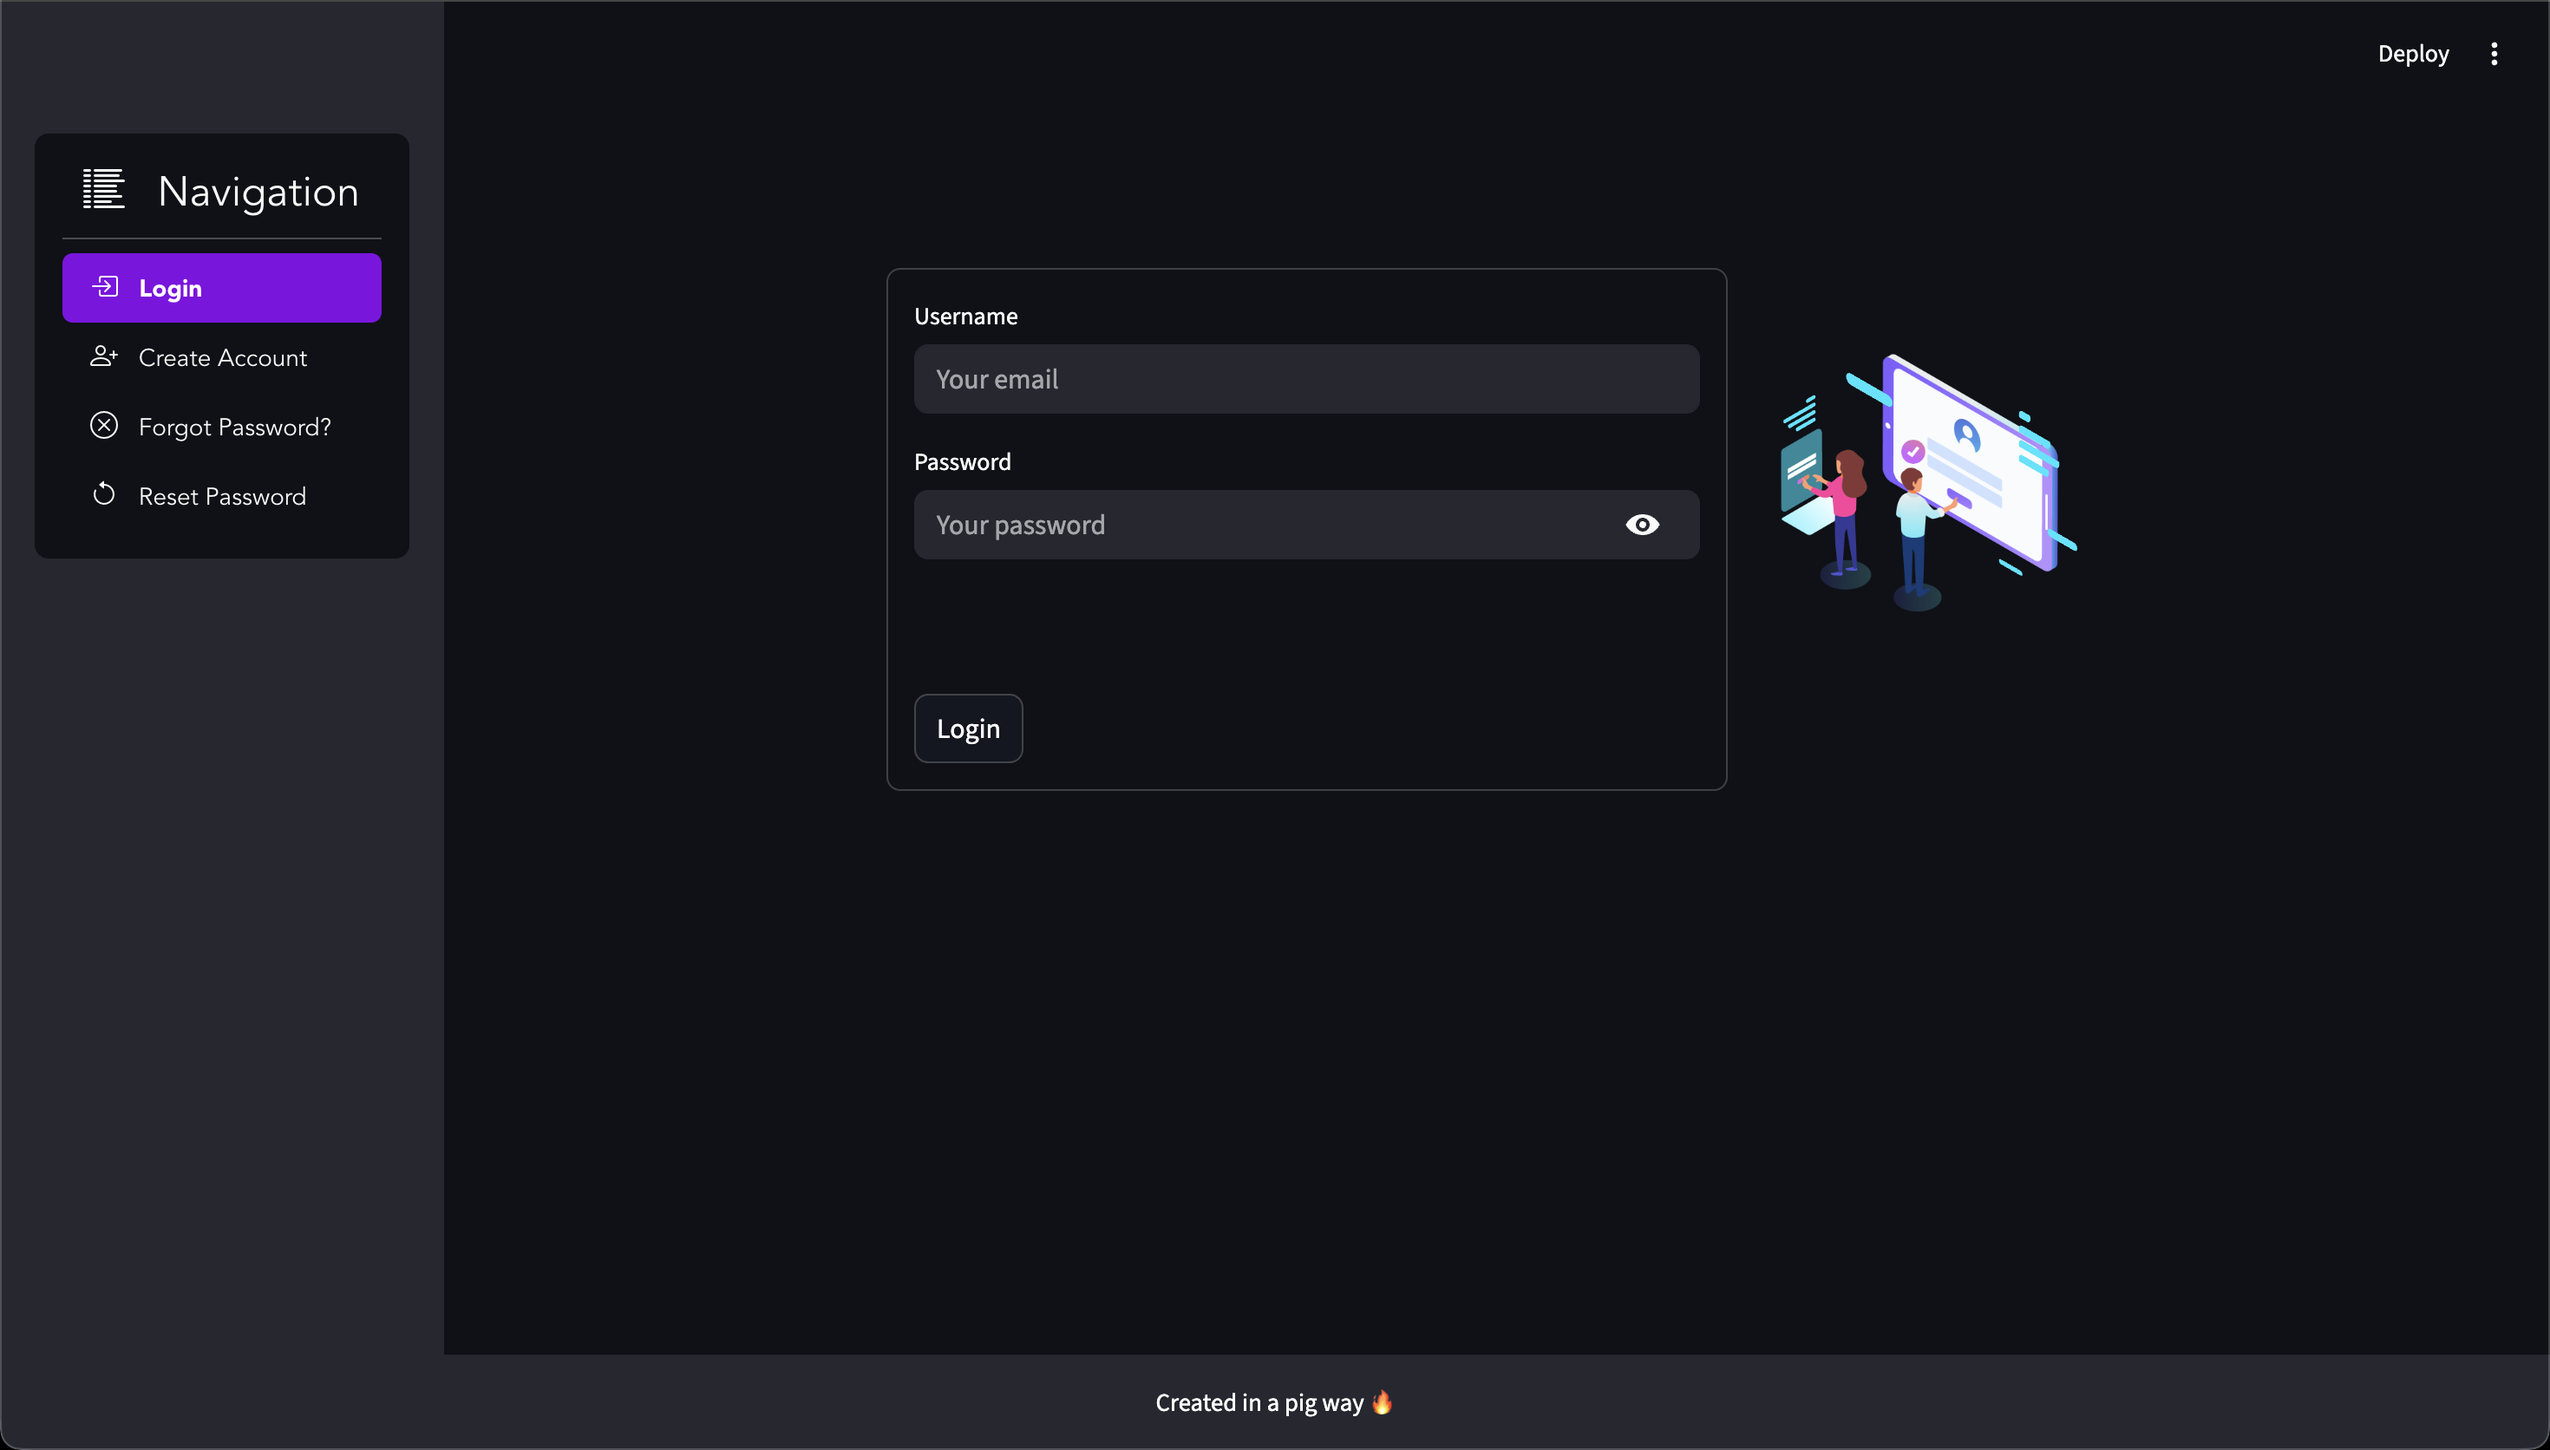
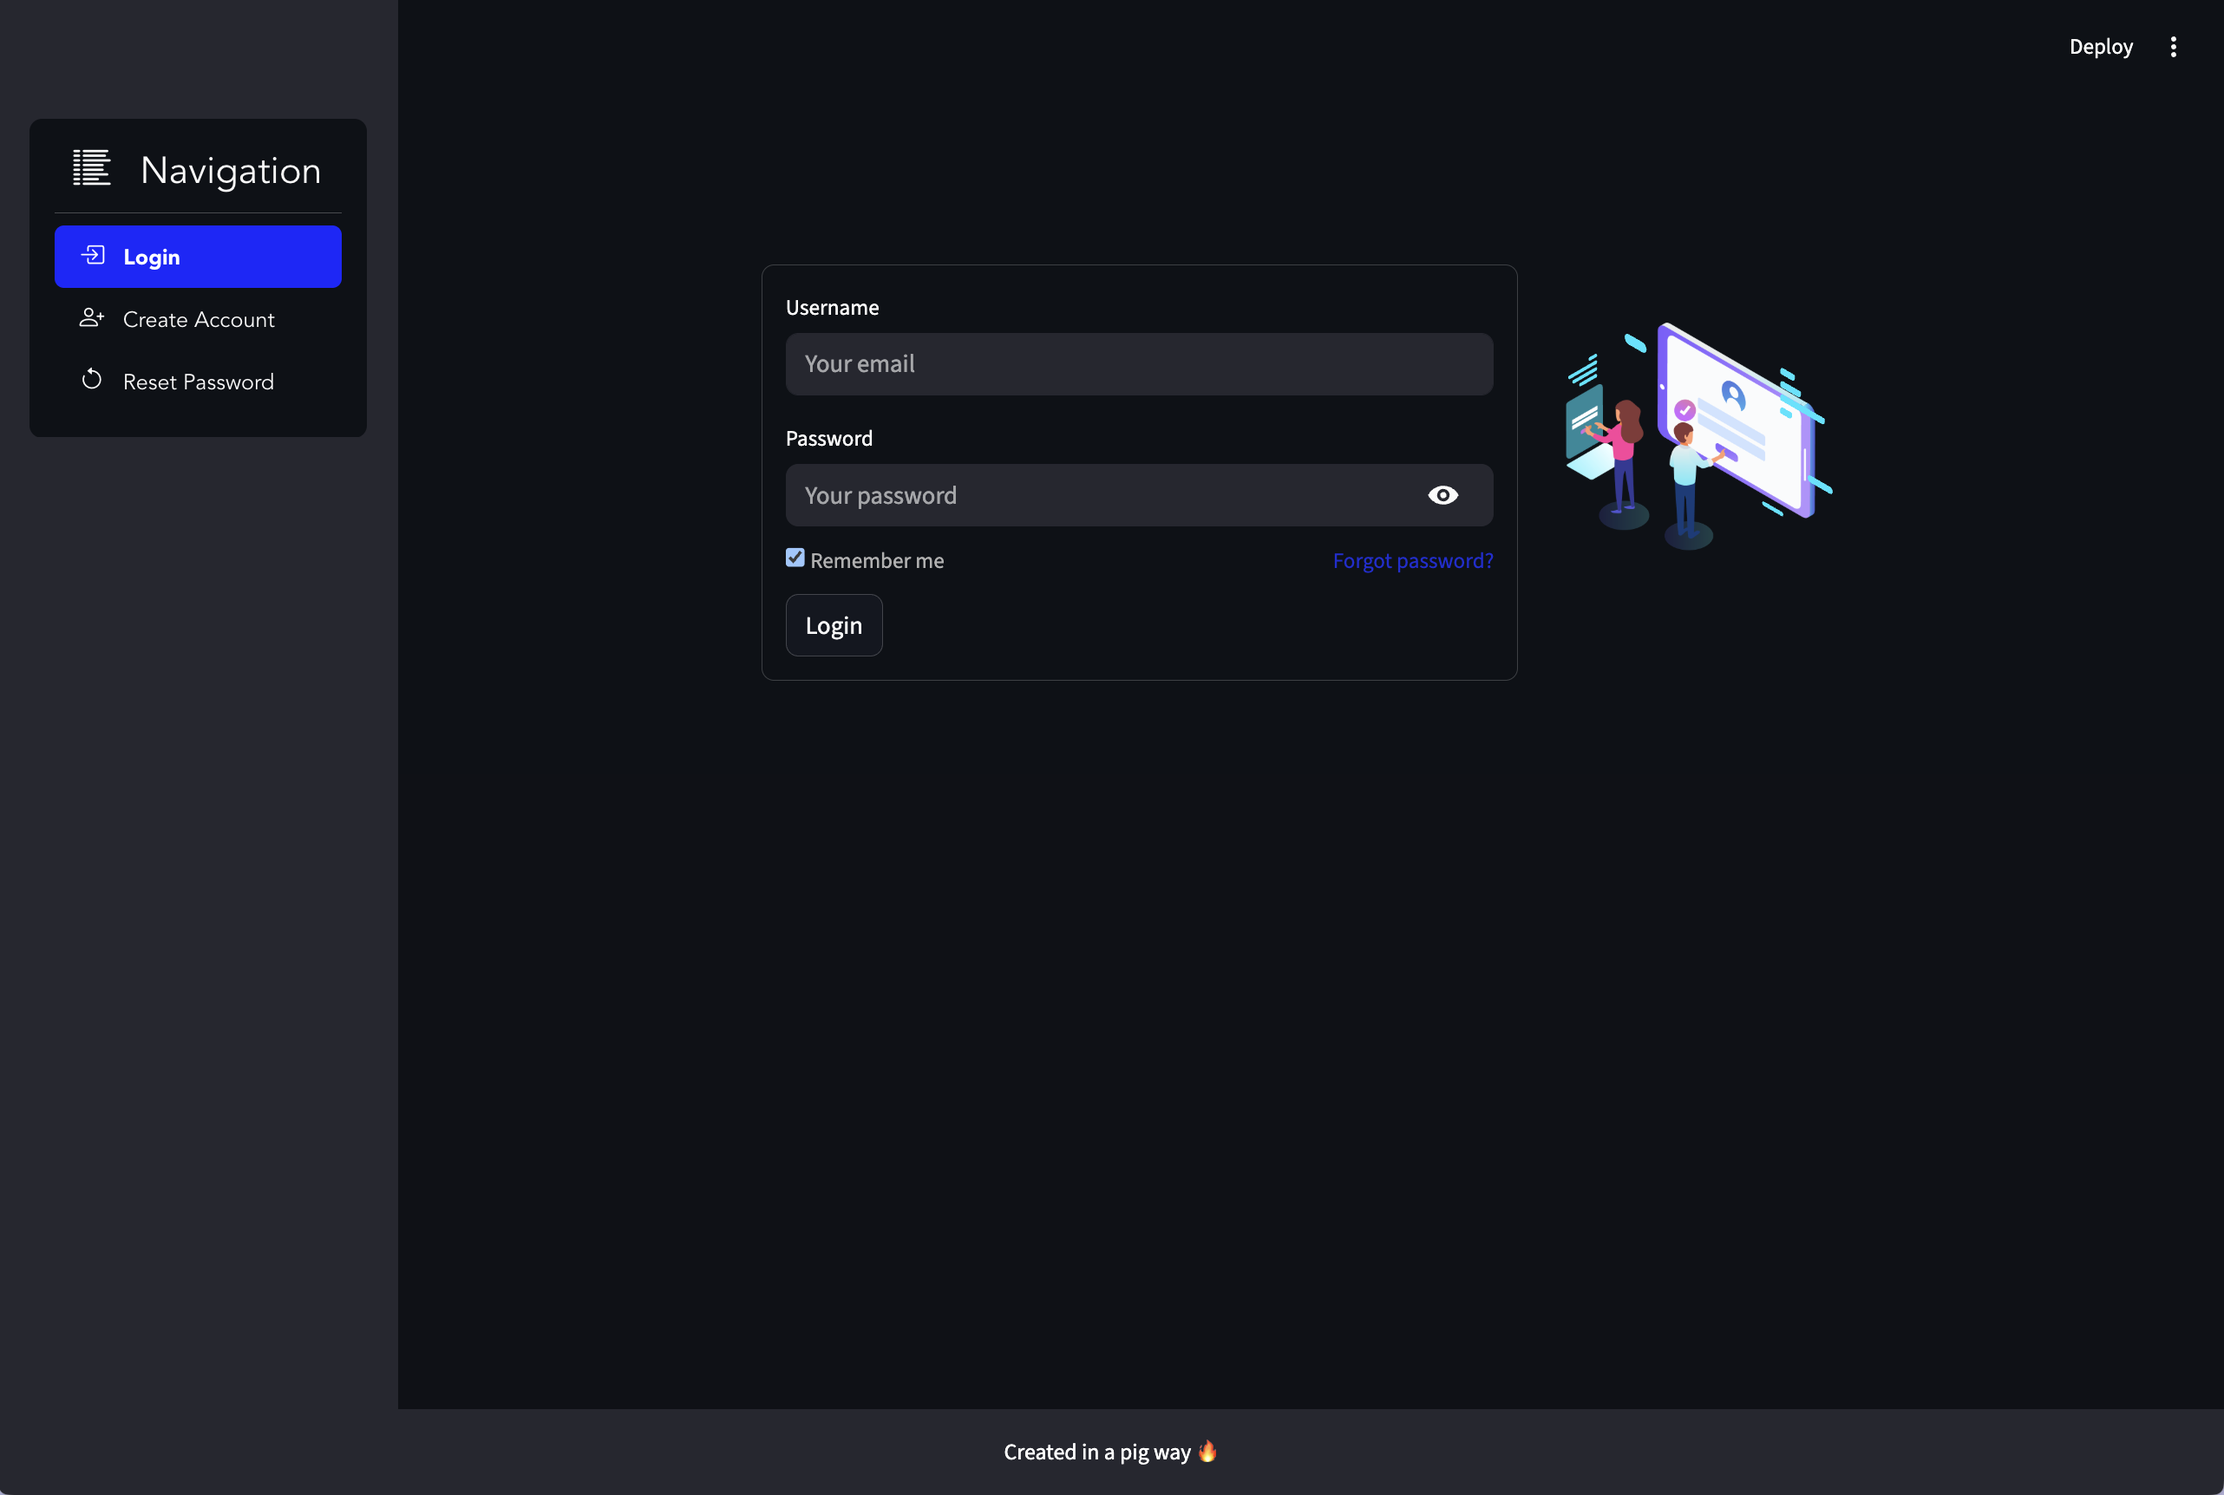
Change css styles, and update login page

diff --git a/frontend/src/widgets.py b/frontend/src/widgets.py
@@ -62,6 +62,45 @@ class __login__:
                 return username
  
 
+    # def login_widget(self) -> None:
+    #     """
+    #     Creates the login widget, checks and sets cookies, authenticates the users.
+    #     """
+
+    #     # Checks if cookie exists.
+    #     if st.session_state['LOGGED_IN'] == False:
+    #         if st.session_state['LOGOUT_BUTTON_HIT'] == False:
+    #             fetched_cookies = self.cookies
+    #             if '__streamlit_login_signup_ui_username__' in fetched_cookies.keys():
+    #                 if fetched_cookies['__streamlit_login_signup_ui_username__'] != '1c9a923f-fb21-4a91-b3f3-5f18e3f01182':
+    #                     st.session_state['LOGGED_IN'] = True
+
+    #     if st.session_state['LOGGED_IN'] == False:
+    #         st.session_state['LOGOUT_BUTTON_HIT'] = False 
+
+    #         del_login = st.empty()
+    #         with del_login.form("Login Form"):
+    #             username = st.text_input("Username", placeholder = 'Your email')
+    #             password = st.text_input("Password", placeholder = 'Your password', type = 'password')
+
+    #             st.markdown("###")
+    #             login_submit_button = st.form_submit_button(label = 'Login')
+
+    #             if login_submit_button == True:
+    #                 authenticate_user_check = check_usr_pass(username, password)
+
+    #                 if authenticate_user_check == False:
+    #                     st.error("Invalid Username or Password!")
+
+    #                 else:
+    #                     st.session_state['LOGGED_IN'] = True
+    #                     self.cookies['__streamlit_login_signup_ui_username__'] = username
+    #                     self.cookies.save()
+    #                     del_login.empty()
+    #                     st.rerun()
+
+    #         with st.expander('Forgot password?'):
+    #             self.forgot_password()
     def login_widget(self) -> None:
         """
         Creates the login widget, checks and sets cookies, authenticates the users.
@@ -78,20 +117,57 @@ class __login__:
         if st.session_state['LOGGED_IN'] == False:
             st.session_state['LOGOUT_BUTTON_HIT'] = False 
 
+            # CSS spaces and align the options
+            st.markdown("""
+                <style>
+                /* Reduz espaço entre senha e botão */
+                div[data-testid="stForm"] > div:nth-child(3) {
+                    margin-top: -5px;
+                }
+
+                /* Linha Remember / Forgot */
+                .login-options {
+                    display: flex;
+                    justify-content: space-between;
+                    align-items: center;
+                    margin-bottom: 10px;
+                    margin-top: -5px;
+                    font-size: 14px;
+                    color: #b0b0b0;
+                }
+
+                .login-options a {
+                    color: #1f2ed3;
+                    text-decoration: none;
+                }
+
+                .login-options a:hover {
+                    text-decoration: underline;
+                }
+                </style>
+            """, unsafe_allow_html=True)
+
             del_login = st.empty()
             with del_login.form("Login Form"):
-                username = st.text_input("Username", placeholder = 'Your email')
-                password = st.text_input("Password", placeholder = 'Your password', type = 'password')
+                username = st.text_input("Username", placeholder='Your email')
+                password = st.text_input("Password", placeholder='Your password', type='password')
 
-                st.markdown("###")
-                login_submit_button = st.form_submit_button(label = 'Login')
+                # Remember me + Forgot password
+                st.markdown("""
+                <div class='login-options'>
+                    <label><input type='checkbox' checked> Remember me</label>
+                    <a href='#'>Forgot password?</a>
+                </div>
+                """, unsafe_allow_html=True)
 
-                if login_submit_button == True:
+                # login button closer to the options
+                login_submit_button = st.form_submit_button(label='Login')
+
+                if login_submit_button:
                     authenticate_user_check = check_usr_pass(username, password)
 
-                    if authenticate_user_check == False:
+                    if not authenticate_user_check:
                         st.error("Invalid Username or Password!")
-
                     else:
                         st.session_state['LOGGED_IN'] = True
                         self.cookies['__streamlit_login_signup_ui_username__'] = username
@@ -229,7 +305,7 @@ class __login__:
                 st.session_state['LOGGED_IN'] = False
                 self.cookies['__streamlit_login_signup_ui_username__'] = '1c9a923f-fb21-4a91-b3f3-5f18e3f01182'
                 del_logout.empty()
-                st.experimental_rerun()
+                st.rerun()
         
 
     def nav_sidebar(self):
@@ -241,8 +317,8 @@ class __login__:
             selected_option = option_menu(
                 menu_title = 'Navigation',
                 menu_icon = 'list-columns-reverse',
-                icons = ['box-arrow-in-right', 'person-plus', 'x-circle','arrow-counterclockwise'],
-                options = ['Login', 'Create Account', 'Forgot Password?', 'Reset Password'],
+                icons = ['box-arrow-in-right', 'person-plus', 'arrow-counterclockwise'],
+                options = ['Login', 'Create Account', 'Reset Password'],
                 styles = {
                     "container": {"padding": "5px"},
                     "nav-link": {"font-size": "14px", "text-align": "left", "margin":"0px"}} )
@@ -295,6 +371,7 @@ class __login__:
         if 'LOGOUT_BUTTON_HIT' not in st.session_state:
             st.session_state['LOGOUT_BUTTON_HIT'] = False
 
+
         main_page_sidebar, selected_option = self.nav_sidebar()
 
         if selected_option == 'Login':
@@ -308,8 +385,7 @@ class __login__:
         if selected_option == 'Create Account':
             self.sign_up_widget()
 
-        if selected_option == 'Forgot Password?':
-            self.forgot_password()
+    
 
         if selected_option == 'Reset Password':
             self.reset_password()

diff --git a/frontend/src/utils.py b/frontend/src/utils.py
@@ -4,6 +4,7 @@ from trycourier import Courier
 import secrets
 from argon2 import PasswordHasher
 import requests
+import os
 
 
 ph = PasswordHasher() 
@@ -11,7 +12,8 @@ ph = PasswordHasher()
 import requests
 import streamlit as st
 
-API_URL = "http://127.0.0.1:8000"
+# Prefer env var (works in Docker). Fallback to localhost for local dev.
+API_URL = os.getenv("API_URL", "http://127.0.0.1:8000")
 
 def check_usr_pass(email: str, password: str) -> bool:
     try:
